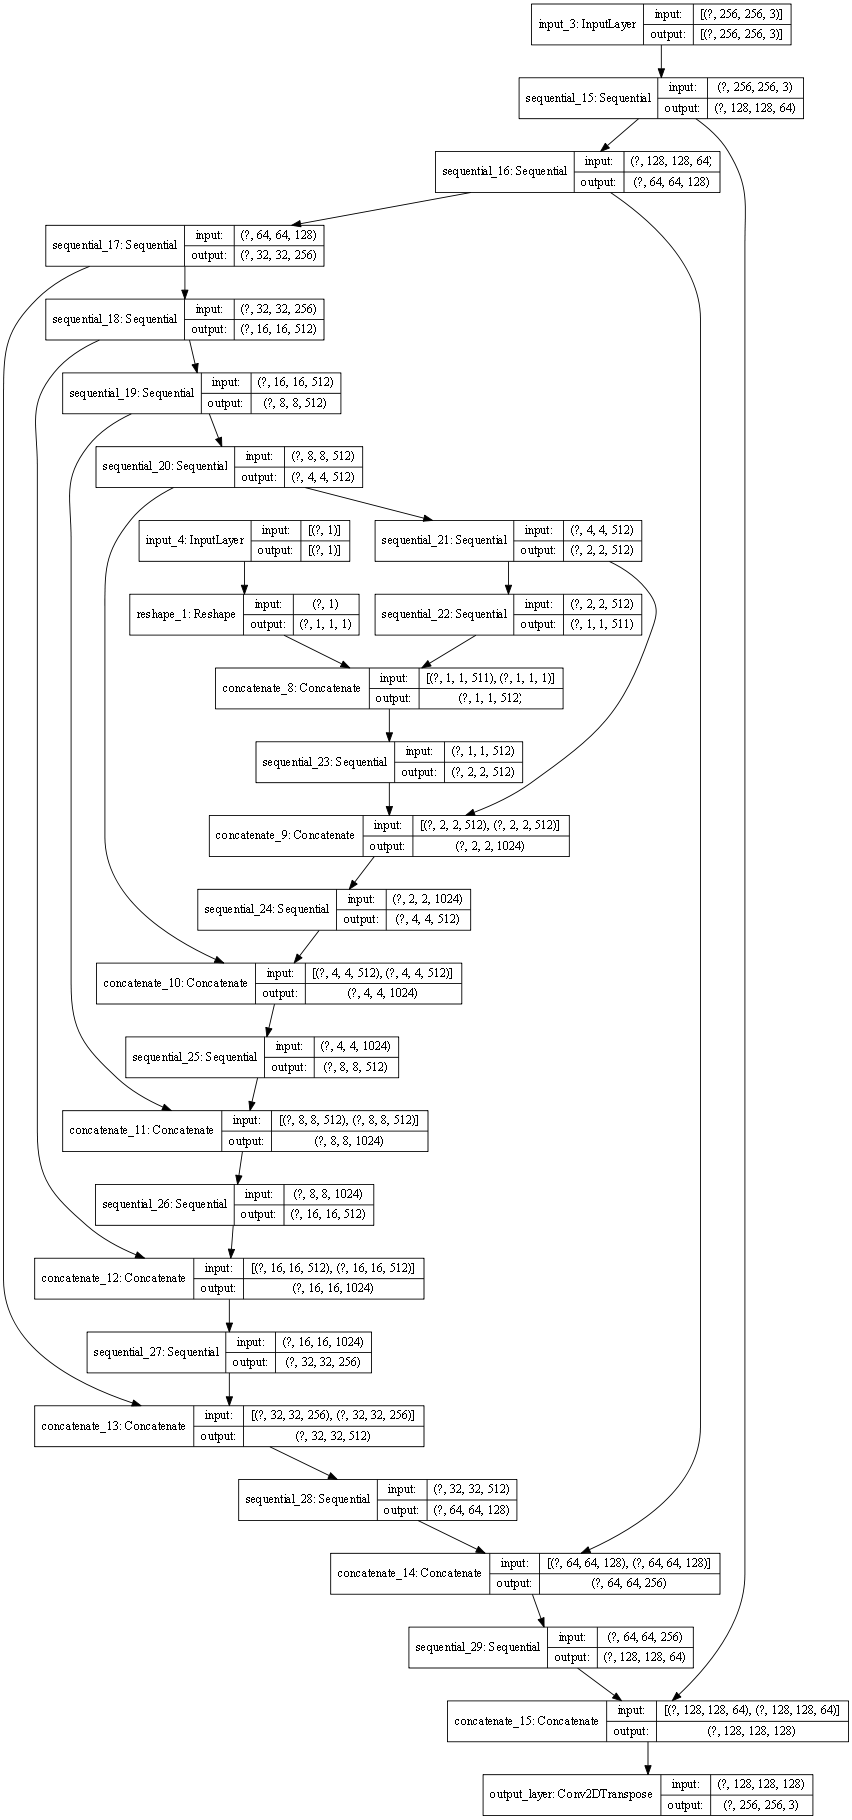
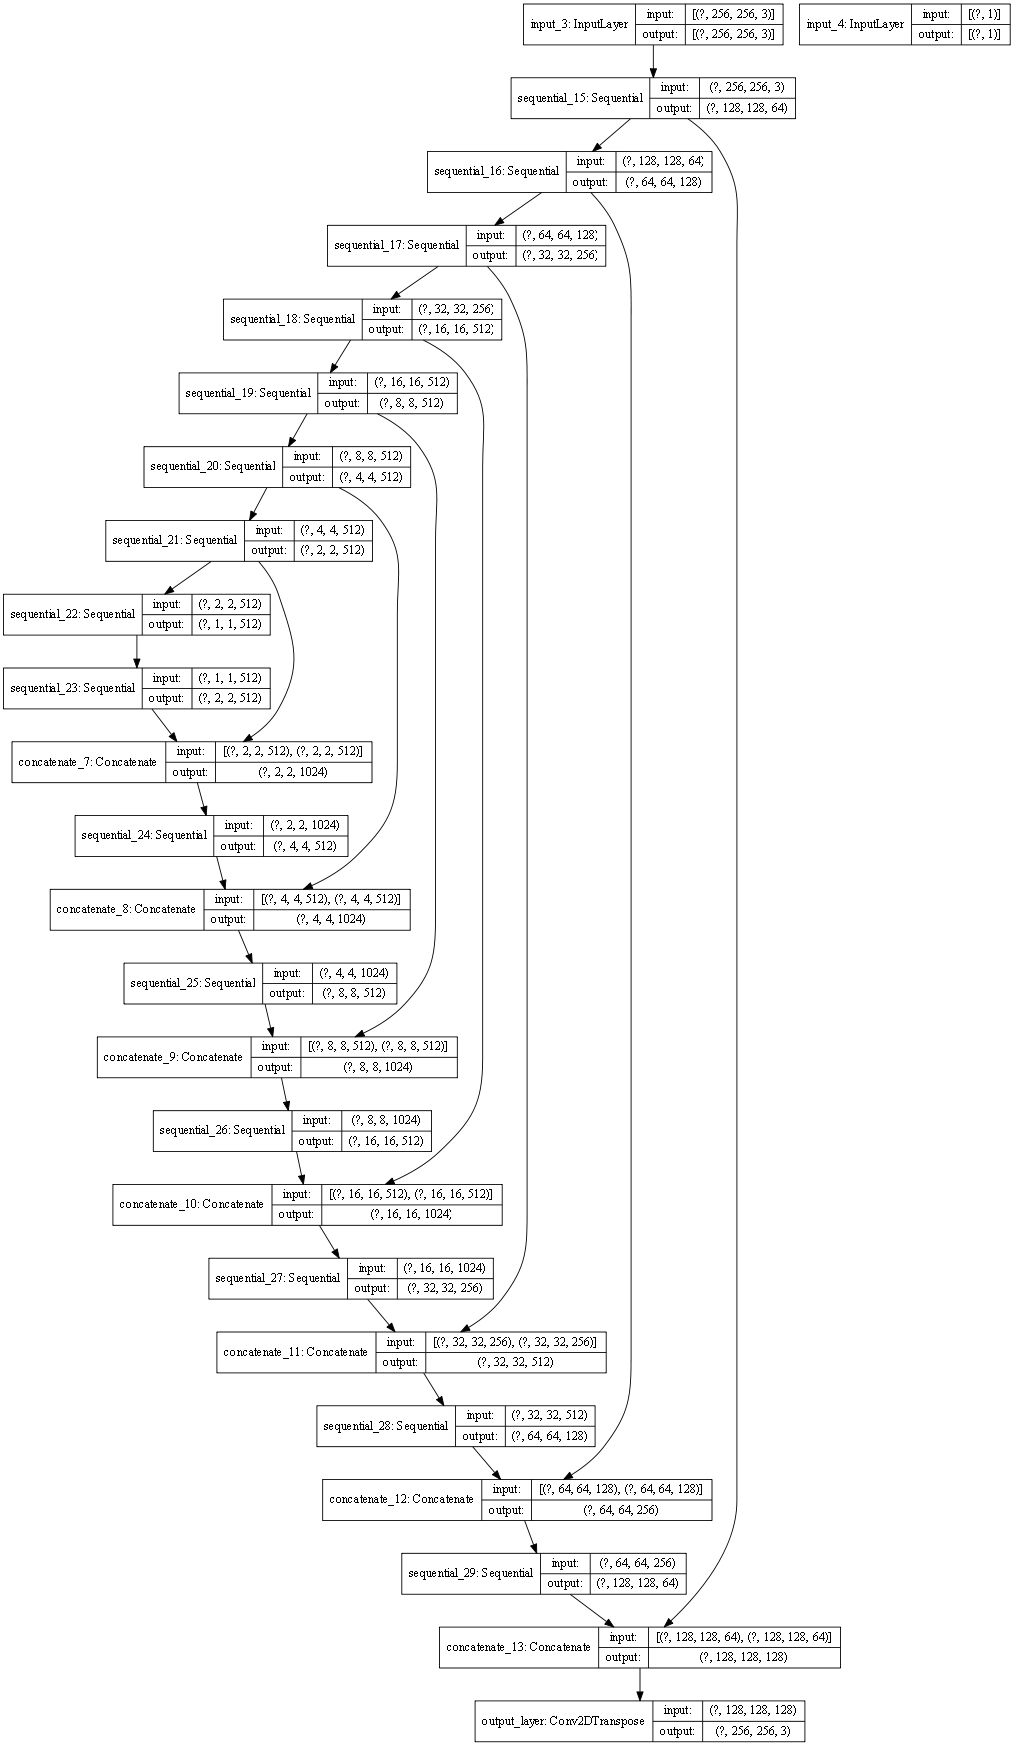
remove intensities from affecting models (back to old)

Changed region(s): [[0.0, 0.0, 1.0, 1.0], [0.5493, 0.7423, 0.5798, 0.7732]]

diff --git a/lib/models.py b/lib/models.py
@@ -99,7 +99,7 @@ class ModelsBuilder:
             self.downsample(512, 4, norm_type=norm_type),  # (bs, 8, 8, 512)
             self.downsample(512, 4, norm_type=norm_type),  # (bs, 4, 4, 512)
             self.downsample(512, 4, norm_type=norm_type),  # (bs, 2, 2, 512)
-            self.downsample(511, 4, norm_type=norm_type),  # (bs, 1, 1, 512) # Change Temporarily TODO: Check
+            self.downsample(512, 4, norm_type=norm_type),  # (bs, 1, 1, 512)
         ]
 
         up_stack = [
@@ -128,9 +128,9 @@ class ModelsBuilder:
 
         # TODO : Delete or keep
         ############ Add Dense Layer - TEST ##########
-        # if use_intensity:
-        #     intensity_input = tf.keras.layers.Input(shape=(1,))
-        #     inputs = [image_input, intensity_input]
+        if use_intensity:
+            intensity_input = tf.keras.layers.Input(shape=(1,))
+            inputs = [image_input, intensity_input]
         #     x = tf.keras.layers.Flatten()(x)
         #     size = x.shape[1]
         #     x = tf.keras.layers.Concatenate()([x,intensity_input])
@@ -139,11 +139,11 @@ class ModelsBuilder:
         ##############################################
 
         ############ Add Dense Layer - TEST ##########
-        if use_intensity:
-            intensity_input = tf.keras.layers.Input(shape=(1,))
-            inputs = [image_input, intensity_input]
-            intensity_reshaped = tf.keras.layers.Reshape((1,1,1))(intensity_input)
-            x = tf.keras.layers.Concatenate()([x,intensity_reshaped])
+        # if use_intensity:
+        #     intensity_input = tf.keras.layers.Input(shape=(1,))
+        #     inputs = [image_input, intensity_input]
+        #     intensity_reshaped = tf.keras.layers.Reshape((1,1,1))(intensity_input)
+        #     x = tf.keras.layers.Concatenate()([x,intensity_reshaped])
         ##############################################
 
         # Upsampling and establishing the skip connections

diff --git a/lib/train.py b/lib/train.py
@@ -161,10 +161,11 @@ class Trainer:
 
             # Phase 5: Clear2Clear
             # Pass a clear image for c2f generator with intensity = 0 and expect to have the same image
-            no_intensity = tf.zeros_like(clear_intensity)
-            if self.normalized_input:
-                no_intensity = no_intensity - 1.0
-            fake_clear2clear = self.generator_clear2fog((real_clear, no_intensity), training=True)
+            # TODO : Uncomment
+            # no_intensity = tf.zeros_like(clear_intensity)
+            # if self.normalized_input:
+            #     no_intensity = no_intensity - 1.0
+            # fake_clear2clear = self.generator_clear2fog((real_clear, no_intensity), training=True)
 
             # calculate the loss
             gen_clear2fog_loss = self.generator_loss(disc_fake_fog)
@@ -175,8 +176,8 @@ class Trainer:
 
             # Total generator loss = adversarial loss + cycle loss
             total_gen_clear2fog_loss = gen_clear2fog_loss + total_cycle_loss + \
-                                       self.identity_loss(real_fog, same_fog) + \
-                                       self.identity_loss(real_clear, fake_clear2clear)
+                                       self.identity_loss(real_fog, same_fog)
+                                       # self.identity_loss(real_clear, fake_clear2clear) # TODO : Uncomment
             total_gen_fog2clear_loss = gen_fog2clear_loss + \
                                        total_cycle_loss + \
                                        self.identity_loss(real_clear, same_clear)
